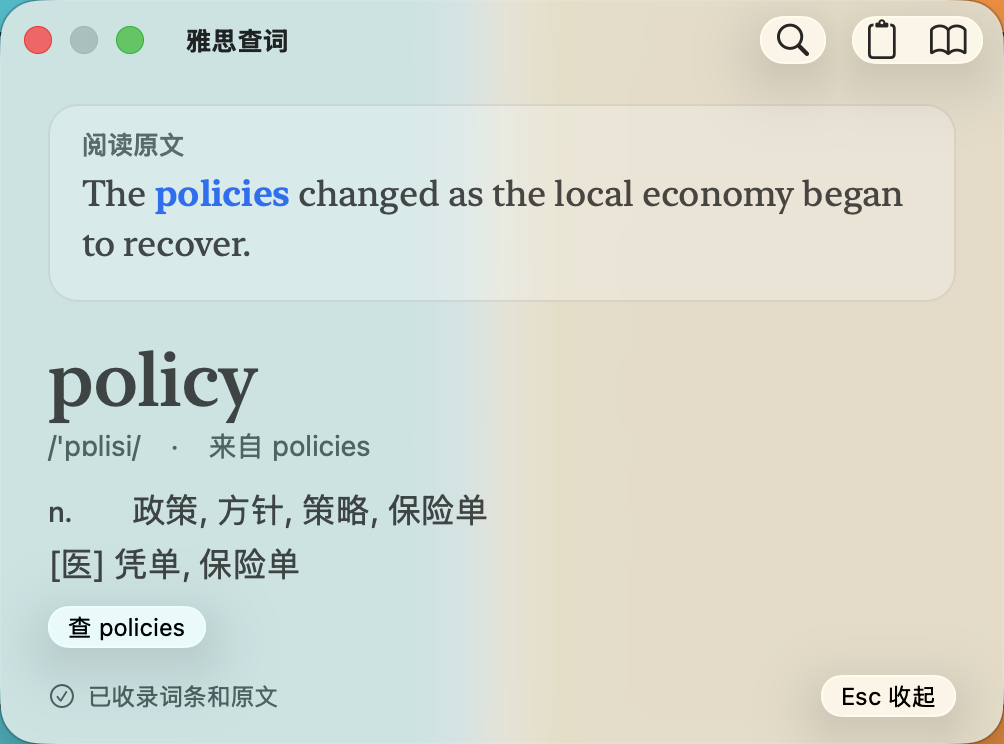
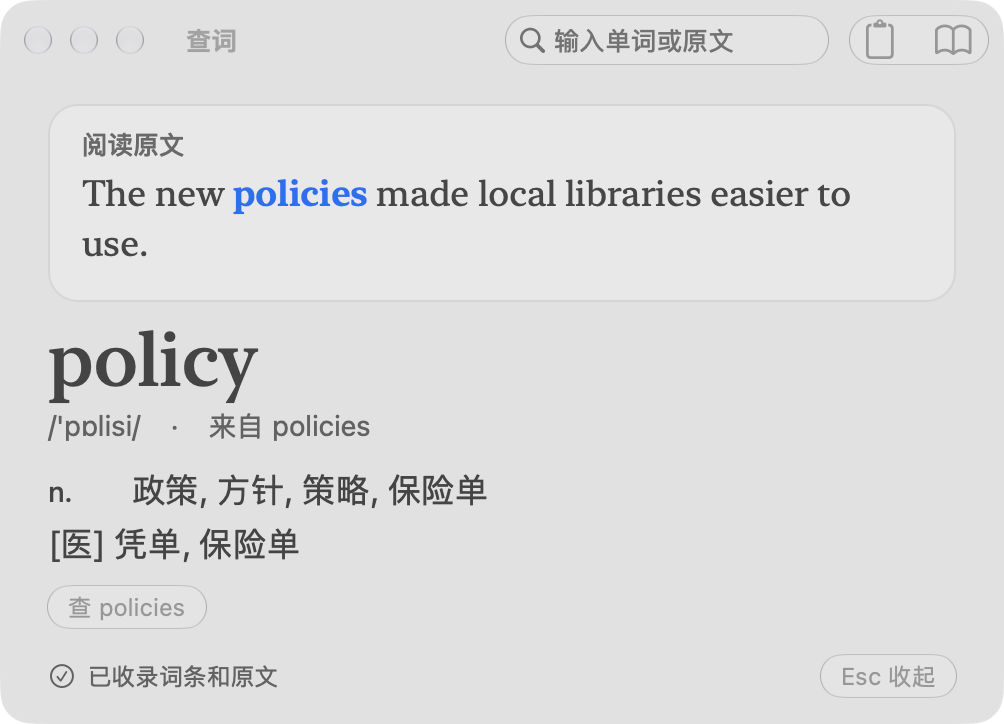
统一应用名称为「查词」，发布 1.11

diff --git a/Lookup.swift b/Lookup.swift
@@ -240,7 +240,7 @@ final class LookupProvider: NSObject, NSApplicationDelegate, NSWindowDelegate, N
         documentItem.target = self
         menu.addItem(documentItem)
         menu.addItem(.separator())
-        let quitItem = NSMenuItem(title: "退出查词工具", action: #selector(quit), keyEquivalent: "")
+        let quitItem = NSMenuItem(title: "退出查词", action: #selector(quit), keyEquivalent: "")
         quitItem.target = self
         menu.addItem(quitItem)
         statusItem?.menu = menu
@@ -331,7 +331,7 @@ final class LookupProvider: NSObject, NSApplicationDelegate, NSWindowDelegate, N
         let window = LookupPanel(contentRect: NSRect(x: 0, y: 0, width: 502, height: 216),
                                  styleMask: [.titled, .closable, .resizable, .fullSizeContentView], backing: .buffered, defer: false)
         panel = window
-        window.title = "雅思查词"
+        window.title = "查词"
         window.toolbarStyle = .unifiedCompact
         window.isOpaque = false
         window.backgroundColor = .clear

diff --git a/runtime/backend.py b/runtime/backend.py
@@ -217,7 +217,7 @@ def export_records(root, items):
     doc.styles["Normal"].paragraph_format.line_spacing = 1.05
     doc.styles["Heading 1"].paragraph_format.space_before = Pt(6)
     doc.styles["Heading 1"].paragraph_format.space_after = Pt(1)
-    doc.add_paragraph("雅思阅读查词记录", "Title")
+    doc.add_paragraph("查词记录", "Title")
     doc.add_paragraph(f"已收录 {len(items)} 个词条。查词时自动更新，重复查询合并到同一词条。")
     if not items:
         doc.add_paragraph("选中英文单词或短语，按 ⌘C 复制，再按 ⌥D 查看中文。查过的词会自动出现在这里。")
@@ -263,7 +263,7 @@ def export_records(root, items):
     def context_html(row):
         return "".join("<blockquote>原文：" + html.escape(c["text"]) + "</blockquote>" for c in row.get("contexts", []))
     cards = "".join(f"<article><h2>{html.escape(r['lemma'])}</h2><p class='phonetic'>{html.escape(phonetic_label(r['phonetic']))}</p><p class='meaning'>{html.escape(r['translation'] or '暂无中文释义，已列入待补')}</p>{example_html(r)}{context_html(r)}</article>" for r in payload)
-    page = """<!doctype html><html lang="zh-CN"><meta charset="utf-8"><meta name="viewport" content="width=device-width,initial-scale=1"><title>雅思阅读查词记录</title><style>body{font:14px/1.4 -apple-system,BlinkMacSystemFont,sans-serif;max-width:850px;margin:24px auto;padding:0 25px;background:#faf9f5;color:#242421}h1{font-size:22px}h2{font-size:17px;margin:0}small,footer{font-size:12px;color:#666}article{background:white;padding:12px;margin:8px 0;border:1px solid #e2e1db;border-radius:10px}.meaning{white-space:pre-wrap;margin:4px 0}input{box-sizing:border-box;width:100%;padding:12px;font-size:17px;border:1px solid #aaa;border-radius:8px}</style><h1>雅思阅读查词记录</h1>"""
+    page = """<!doctype html><html lang="zh-CN"><meta charset="utf-8"><meta name="viewport" content="width=device-width,initial-scale=1"><title>查词记录</title><style>body{font:14px/1.4 -apple-system,BlinkMacSystemFont,sans-serif;max-width:850px;margin:24px auto;padding:0 25px;background:#faf9f5;color:#242421}h1{font-size:22px}h2{font-size:17px;margin:0}small,footer{font-size:12px;color:#666}article{background:white;padding:12px;margin:8px 0;border:1px solid #e2e1db;border-radius:10px}.meaning{white-space:pre-wrap;margin:4px 0}input{box-sizing:border-box;width:100%;padding:12px;font-size:17px;border:1px solid #aaa;border-radius:8px}</style><h1>查词记录</h1>"""
     page += f"<p>已收录 {len(items)} 个词条。音标对应词条原形。查词后自动更新；刷新页面即可看到最新记录。</p><input id='search' placeholder='搜索单词或中文释义' aria-label='搜索词条'>"
     page += cards or "<p>选中英文单词，按 ⌘C 复制，再按 ⌥D。之后的整理自动完成。</p>"
     page += "<script>document.querySelector('#search').addEventListener('input',e=>document.querySelectorAll('article').forEach(a=>a.hidden=!a.textContent.toLowerCase().includes(e.target.value.toLowerCase())))</script></html>"

diff --git a/README.md b/README.md
@@ -1,8 +1,8 @@
-# Option D · Mac 上的即时查词浮窗
+# 查词 · Mac 上的即时查词浮窗
 
 **复制英文，按 ⌥D，中文释义就浮在原文旁。** 在网页、PDF 或电子书里遇到生词，手不用离开键盘。看懂了，按 Esc 接着读。词典随 App 安装，断网也能查，收录和补例句都在后台进行。
 
-[**下载 Mac 版（DMG）**](https://github.com/yuanran-hub/option-d/releases/latest/download/Option-D.dmg) · [使用截图](#使用截图) · [版本记录](https://github.com/yuanran-hub/option-d/releases)
+[**下载「查词」Mac 版（DMG）**](https://github.com/yuanran-hub/option-d/releases/latest/download/Chaci.dmg) · [使用截图](#使用截图) · [版本记录](https://github.com/yuanran-hub/option-d/releases)
 
 macOS 26 及以上 · 支持 Apple 芯片与 Intel · 免费开源
 
@@ -24,10 +24,12 @@ macOS 26 及以上 · 支持 Apple 芯片与 Intel · 免费开源
 
 ## 安装
 
-1. 下载并打开 `Option-D.dmg`，把 **Option D** 拖到「应用程序」。
-2. 从「应用程序」打开 Option D。看到 Mac 菜单栏的「词」，复制一个英文单词，按 **⌥D** 就能试用。如果希望每次开机就能查，可将它加入 macOS 登录项。
+1. 打开下载的磁盘映像，把「查词」拖到「应用程序」。
+2. 从「应用程序」打开「查词」。看到 Mac 菜单栏的「词」，复制一个英文单词，按 **⌥D** 就能试用。如果希望每次开机就能查，可将它加入 macOS 登录项。
 
-公开版尚未经过 Apple 公证。如果首次打开时系统提示无法验证开发者，请先确认文件来自本仓库，再到「系统设置 → 隐私与安全性」找到 Option D，点「仍要打开」。[Apple 官方说明](https://support.apple.com/zh-cn/102445)
+从 1.10 或更早的公开版升级时，先从菜单栏退出旧版，再把「应用程序」中的旧 App 改名为「查词」，将新版拖入并选择替换。启动后，原有生词本会自动载入。
+
+公开版尚未经过 Apple 公证。如果首次打开时系统提示无法验证开发者，请先确认文件来自本仓库，再到「系统设置 → 隐私与安全性」找到「查词」，点「仍要打开」。[Apple 官方说明](https://support.apple.com/zh-cn/102445)
 
 ## 词典与生词本
 
@@ -49,18 +51,17 @@ macOS 26 及以上 · 支持 Apple 芯片与 Intel · 免费开源
 git clone https://github.com/yuanran-hub/option-d.git
 cd option-d
 bash build.sh
-open "build/Option D.app"
+open "build/查词.app"
 ```
 
-制作可分发的通用安装包可运行 `bash build.sh --dmg`，生成的文件在 `build/Option-D.dmg`。
+制作可分发的通用安装包可运行 `bash build.sh --dmg`，生成的文件在 `build/查词.dmg`。
 
 ## 运行测试
-
 
 完成开发版构建后，可运行查词与洗牌测试。
 
 ```sh
-PYTHONDONTWRITEBYTECODE=1 PYTHONPATH="$PWD/build/Option D.app/Contents/Resources/runtime/vendor" \
+PYTHONDONTWRITEBYTECODE=1 PYTHONPATH="$PWD/build/查词.app/Contents/Resources/runtime/vendor" \
 OPTION_D_DICTIONARY_DATA="$PWD/.build/data" \
   /usr/bin/python3 -m unittest discover -s runtime
 xcrun swiftc book/BookData.swift tests/ShuffleTests.swift -o .build/shuffle-tests
